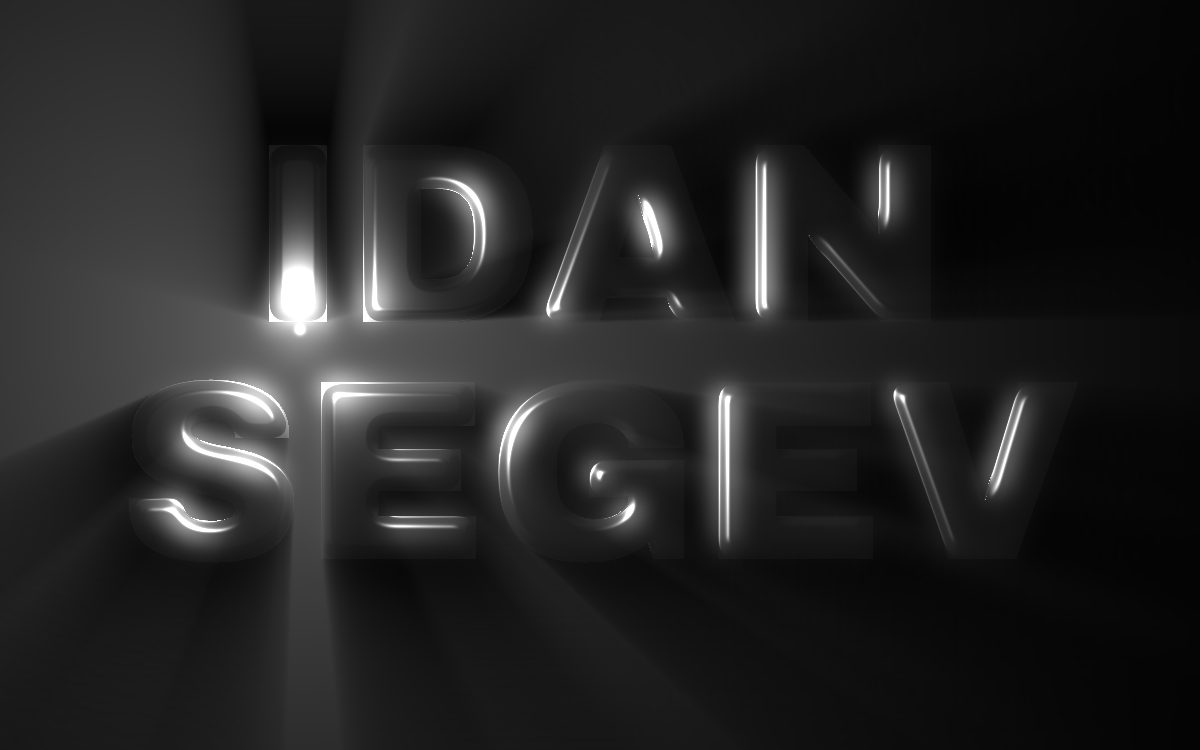
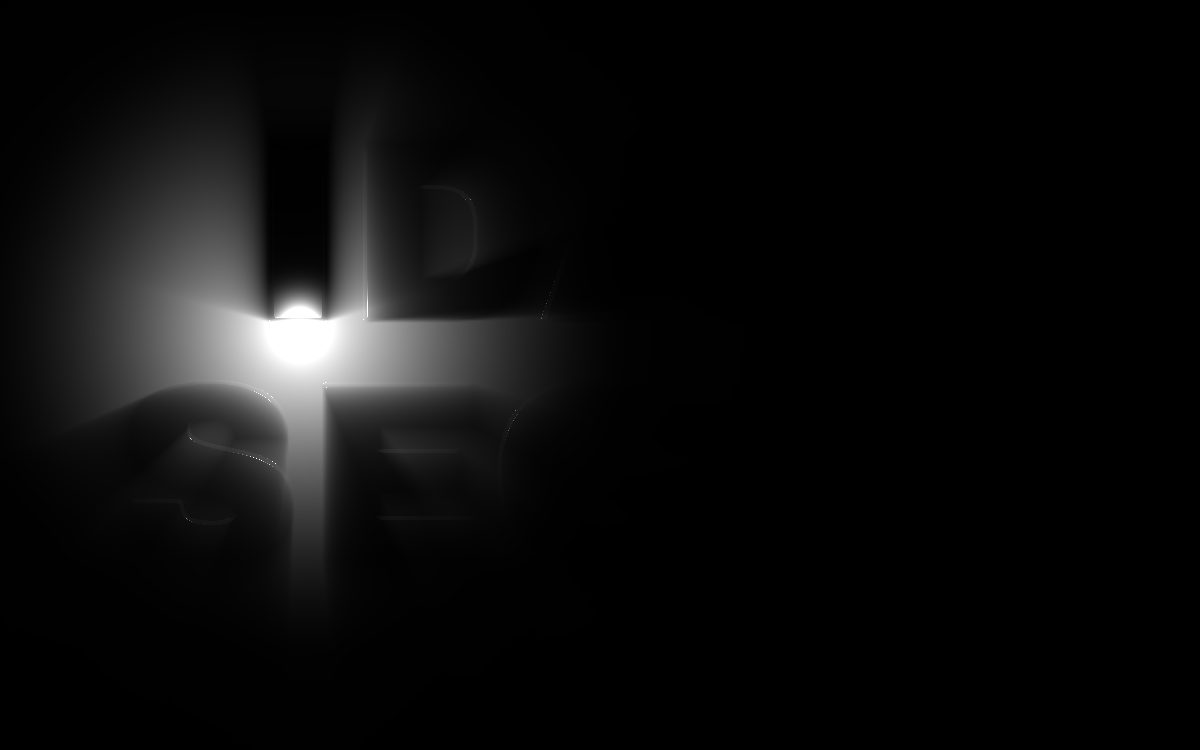
Glint: black only, lock and publish; share pages for Marbled and Glint

diff --git a/src/posters/glint.js b/src/posters/glint.js
@@ -4,7 +4,8 @@
 // (a finger, or the mouse). On the light page the whole picture is inverted.
 //
 // Under the picture (WebGL2): a height field of the type with a smooth bevel; a light pass (specular on the bevel, a small
-// diffuse term); a bloom from a blurred copy; the rays; and a composite with the lamp itself.
+// diffuse term); a bloom from a blurred copy; the rays; and a composite with the lamp itself. Optional: the light in a cone (a lamp
+// with a shade, aimed at the name or at a fixed angle), and a flat look that cuts the picture to two tones.
 //
 // Colour (about one showing in twenty, src/colour.js): from the first touch, the light takes the palette along the page.
 // gestures: n/a (the lamp follows the pointer; nothing else is pressable). Self-demo: once, after 3.5 s untouched, the lamp
@@ -15,13 +16,24 @@ import { colourOf, GLSL_PAGE_GRADIENT } from '../colour.js';
 import { createReveal, grid, corners, label, titleBlock, ink as rvInk } from './reveal.js';
 
 const FACE = '900 100px Archivo, "Arial Black", "Helvetica Neue", sans-serif';
-const DEF = { haze: 0.45, height: 80, reach: 1150, sharp: 28, bloom: 1.4, bevel: 8, face: 0.01 };
+const DEF = { haze: 1.9, height: 80, reach: 300, sharp: 120, bloom: 1.4, bevel: 2, face: 0,
+  cone: 0, coneW: 35, coneSoft: 0.35, aim: 0, aimName: 1,      // the cone: a lamp with a shade, aimed at the name or at a fixed angle
+  flat: 0, cut: 0.3 };                                         // flat: the picture cut to two tones, no greys
 
+const CONE = `uniform float uCone, uConeW, uConeSoft; uniform vec2 uAim;
+float coneAt(vec2 px, vec2 lamp) {
+  if (uCone < 0.5) return 1.0;
+  vec2 d = px - lamp; float l = length(d);
+  float a = acos(clamp(dot(d / max(l, 1e-3), uAim), -1.0, 1.0));
+  float s = max(uConeSoft * uConeW, 0.004);
+  return mix(1.0, smoothstep(uConeW + s * 0.5, uConeW - s * 0.5, a), smoothstep(4.0, 28.0, l));
+}`;
 const VS = `#version 300 es
 out vec2 uv; void main() { vec2 p = vec2(float((gl_VertexID << 1) & 2), float(gl_VertexID & 2)); uv = p; gl_Position = vec4(p * 2.0 - 1.0, 0.0, 1.0); }`;
 const LIGHT = `#version 300 es
 precision highp float;
 in vec2 uv; uniform sampler2D uH; uniform vec2 uCss, uTex; uniform vec3 uLamp; uniform float uSharp, uReach, uFace, uDepth;
+${CONE}
 out vec4 o;
 void main() {
   float h = texture(uH, uv).r;
@@ -33,7 +45,7 @@ void main() {
   vec3 N = normalize(vec3(-hx * scale.x, hy * scale.y, 1.0));
   vec3 L = vec3(uLamp.xy - px, uLamp.z - h * uDepth); float dist = length(L); L /= dist;
   vec3 H = normalize(L + vec3(0.0, 0.0, 1.0));
-  float fall = pow(clamp(1.0 - dist / uReach, 0.0, 1.0), 1.5);
+  float fall = pow(clamp(1.0 - dist / uReach, 0.0, 1.0), 1.5) * coneAt(px, uLamp.xy);
   float spec = pow(max(dot(N, H), 0.0), uSharp) * 4.0 * fall;
   float diff = max(dot(N, L), 0.0) * fall * 0.10 * smoothstep(0.02, 0.2, abs(hx) + abs(hy));
   o = vec4((spec + diff) * mask + uFace * mask, h, 0.0, 1.0);
@@ -46,26 +58,29 @@ void main() { float w[5] = float[5](0.227, 0.195, 0.122, 0.054, 0.016); float s 
 const RAYS = `#version 300 es
 precision highp float;
 in vec2 uv; uniform sampler2D uH; uniform vec2 uLampUV, uCss; uniform float uReach; out vec4 o;
+${CONE}
 void main() {
   vec2 d = (uv - uLampUV) / 72.0; vec2 p = uv; float lit = 0.0, w = 1.0, sum = 0.0;
   for (int i = 0; i < 72; i++) { p -= d; lit += (1.0 - texture(uH, p).g) * w; sum += w; w *= 0.985; }
   lit /= sum;
   float dist = length((uv - uLampUV) * uCss);
   float fall = pow(clamp(1.0 - dist / (uReach * 1.15), 0.0, 1.0), 2.8) + 0.25 * exp(-dist / 60.0);
+  fall *= coneAt(vec2(uv.x, 1.0 - uv.y) * uCss, vec2(uLampUV.x, 1.0 - uLampUV.y) * uCss);
   o = vec4(lit * lit * fall, 0.0, 0.0, 1.0);
 }`;
 const COMP = `#version 300 es
 precision highp float;
-in vec2 uv; uniform sampler2D uL, uB, uR; uniform float uBloom, uHaze, uCol, uInv; uniform vec2 uCss; uniform vec3 uLamp;
+in vec2 uv; uniform sampler2D uL, uB, uR; uniform float uBloom, uHaze, uCol, uInv, uFlat, uCut; uniform vec2 uCss; uniform vec3 uLamp;
 ${GLSL_PAGE_GRADIENT}
 out vec4 o;
 void main() {
   float v = texture(uL, uv).r + texture(uB, uv).r * uBloom + texture(uR, uv).r * uHaze * 0.55;
   vec2 px = vec2(uv.x, 1.0 - uv.y) * uCss; float d2 = dot(px - uLamp.xy, px - uLamp.xy);
   float lamp = exp(-d2 / 18.0) + 0.16 * exp(-d2 / 900.0);
-  vec3 c = vec3(pow(clamp(v, 0.0, 1.0), 1.0 / 1.4));
-  c = mix(c, c * gradientAt(1.0 - uv.y) * 1.25, uCol);
-  c += lamp;
+  vec3 c;
+  if (uFlat > 0.5) { float t = v + lamp; float fw = max(fwidth(t), 1e-3); c = vec3(smoothstep(uCut - fw, uCut + fw, t)); }   // two tones
+  else { c = vec3(pow(clamp(v, 0.0, 1.0), 1.0 / 1.4)); c += lamp; }
+  c = mix(c, c * gradientAt(1.0 - uv.y) * (uFlat > 0.5 ? 1.0 : 1.25), uCol);
   o = vec4(mix(c, vec3(1.0) - c, uInv), 1.0);
 }`;
 
@@ -107,8 +122,8 @@ export async function mount(stage) {
     lines.forEach((l, i) => x.fillText(l, texW / 2, top + i * lead));
     const src = x.getImageData(0, 0, texW, texH).data, n = texW * texH, mask = new Float32Array(n);
     for (let i = 0; i < n; i++) mask[i] = src[i * 4 + 3] / 255;
-    let a = mask.slice(), b = new Float32Array(n); const r = Math.max(1, Math.round(P.bevel * k));
-    for (let pass = 0; pass < 3; pass++) {                              // three box blurs make a gaussian: the bevel
+    let a = mask.slice(), b = new Float32Array(n); const r = Math.round(P.bevel * k);   // 0: no bevel, a hard edge
+    for (let pass = 0; pass < (r > 0 ? 3 : 0); pass++) {                              // three box blurs make a gaussian: the bevel
       for (let y = 0; y < texH; y++) { let s = 0; const o = y * texW; for (let i = -r; i <= r; i++) s += a[o + Math.min(texW - 1, Math.max(0, i))];
         for (let xx = 0; xx < texW; xx++) { b[o + xx] = s / (2 * r + 1); s += a[o + Math.min(texW - 1, xx + r + 1)] - a[o + Math.max(0, xx - r)]; } }
       for (let xx = 0; xx < texW; xx++) { let s = 0; for (let i = -r; i <= r; i++) s += b[Math.min(texH - 1, Math.max(0, i)) * texW + xx];
@@ -147,7 +162,11 @@ export async function mount(stage) {
   const Ctl = (key, label2, min, max, step) => ({ key, label: label2, min, max, step });
   const tune = {
     title: 'Glint', values: P, defaults: DEF,
-    groups: [{ name: 'Light', items: [Ctl('haze', 'Light in the air (beams)', 0, 2, 0.02), Ctl('height', 'Lamp height (low: grazing)', 20, 400, 5), Ctl('reach', 'How far the lamp reaches', 300, 2400, 20), Ctl('sharp', 'Glint (soft to sharp)', 4, 120, 1), Ctl('bloom', 'Bloom', 0, 3, 0.05), Ctl('bevel', 'Bevel width (px)', 2, 24, 1), Ctl('face', 'The face, seen at all', 0, 0.12, 0.002)] }],
+    groups: [
+      { name: 'Light', items: [Ctl('haze', 'Light in the air (beams)', 0, 3, 0.02), Ctl('height', 'Lamp height (low: grazing)', 20, 400, 5), Ctl('reach', 'How far the lamp reaches', 100, 2400, 20), Ctl('sharp', 'Glint (soft to sharp)', 4, 300, 1), Ctl('bloom', 'Bloom', 0, 3, 0.05), Ctl('bevel', 'Bevel width (px)', 0, 24, 0.5), Ctl('face', 'The face, seen at all', 0, 0.12, 0.002)] },
+      { name: 'Cone', items: [{ key: 'cone', label: 'Light in a cone', type: 'toggle' }, Ctl('coneW', 'Cone width (half angle, deg)', 3, 90, 1), Ctl('coneSoft', 'Cone edge (hard to soft)', 0, 1, 0.01), { key: 'aimName', label: 'Aim at the name', type: 'toggle' }, Ctl('aim', 'Aim (deg, when not at the name)', 0, 360, 1)] },
+      { name: 'Look', items: [{ key: 'flat', label: 'Flat black and white', type: 'toggle' }, Ctl('cut', 'Where white begins', 0.01, 0.9, 0.01)] },
+    ],
     set(key, v) { P[key] = v; if (key === 'bevel') build(); },
     reset() { Object.assign(P, DEF); build(); },
   };
@@ -164,11 +183,14 @@ export async function mount(stage) {
     }
     lamp.x += (lamp.tx - lamp.x) * Math.min(1, dt * 9); lamp.y += (lamp.ty - lamp.y) * Math.min(1, dt * 9);
     const lampZ = P.height;
+    let ax = Math.cos(P.aim * Math.PI / 180), ay = Math.sin(P.aim * Math.PI / 180);   // the cone's direction, on the page (y down)
+    if (P.aimName) { const dx = W / 2 - lamp.x, dy = H / 2 - lamp.y, l = Math.hypot(dx, dy); if (l > 1) { ax = dx / l; ay = dy / l; } }
+    const cone = (pp) => { gl.uniform1f(pp.u('uCone'), P.cone ? 1 : 0); gl.uniform1f(pp.u('uConeW'), P.coneW * Math.PI / 180); gl.uniform1f(pp.u('uConeSoft'), P.coneSoft); gl.uniform2f(pp.u('uAim'), ax, ay); };
     gl.disable(gl.BLEND); gl.bindVertexArray(vao);
     gl.bindFramebuffer(gl.FRAMEBUFFER, TL.f); gl.viewport(0, 0, TL.w, TL.h); gl.useProgram(pL.p);
     gl.activeTexture(gl.TEXTURE0); gl.bindTexture(gl.TEXTURE_2D, hTex); gl.uniform1i(pL.u('uH'), 0);
     gl.uniform2f(pL.u('uCss'), W, H); gl.uniform2f(pL.u('uTex'), 1 / texW, 1 / texH); gl.uniform3f(pL.u('uLamp'), lamp.x, lamp.y, lampZ);
-    gl.uniform1f(pL.u('uSharp'), P.sharp); gl.uniform1f(pL.u('uReach'), P.reach); gl.uniform1f(pL.u('uFace'), P.face); gl.uniform1f(pL.u('uDepth'), 30 * (W / texW) / 2);
+    gl.uniform1f(pL.u('uSharp'), P.sharp); gl.uniform1f(pL.u('uReach'), P.reach); gl.uniform1f(pL.u('uFace'), P.face); gl.uniform1f(pL.u('uDepth'), 30 * (W / texW) / 2); cone(pL);
     gl.drawArrays(gl.TRIANGLES, 0, 3);
     gl.useProgram(pB.p);                                                // bloom: a quarter-size blur, there and back, twice
     for (let pass = 0; pass < 2; pass++) {
@@ -177,13 +199,14 @@ export async function mount(stage) {
     }
     gl.bindFramebuffer(gl.FRAMEBUFFER, TR.f); gl.viewport(0, 0, TR.w, TR.h); gl.useProgram(pR.p);   // the air
     gl.bindTexture(gl.TEXTURE_2D, hTex); gl.uniform1i(pR.u('uH'), 0);
-    gl.uniform2f(pR.u('uLampUV'), lamp.x / W, 1 - lamp.y / H); gl.uniform2f(pR.u('uCss'), W, H); gl.uniform1f(pR.u('uReach'), P.reach);
+    gl.uniform2f(pR.u('uLampUV'), lamp.x / W, 1 - lamp.y / H); gl.uniform2f(pR.u('uCss'), W, H); gl.uniform1f(pR.u('uReach'), P.reach); cone(pR);
     gl.drawArrays(gl.TRIANGLES, 0, 3);
     gl.bindFramebuffer(gl.FRAMEBUFFER, null); gl.viewport(0, 0, stage.pw, stage.ph); gl.useProgram(pC.p);
     gl.activeTexture(gl.TEXTURE0); gl.bindTexture(gl.TEXTURE_2D, TL.t); gl.uniform1i(pC.u('uL'), 0);
     gl.activeTexture(gl.TEXTURE1); gl.bindTexture(gl.TEXTURE_2D, TB.t); gl.uniform1i(pC.u('uB'), 1);
     gl.activeTexture(gl.TEXTURE2); gl.bindTexture(gl.TEXTURE_2D, TR.t); gl.uniform1i(pC.u('uR'), 2); gl.activeTexture(gl.TEXTURE0);
     gl.uniform1f(pC.u('uBloom'), P.bloom); gl.uniform1f(pC.u('uHaze'), P.haze); gl.uniform1f(pC.u('uCol'), col ? col.amount : 0); gl.uniform1f(pC.u('uInv'), dark ? 0 : 1);
+    gl.uniform1f(pC.u('uFlat'), P.flat ? 1 : 0); gl.uniform1f(pC.u('uCut'), P.cut);
     gl.uniform2f(pC.u('uCss'), W, H); gl.uniform3f(pC.u('uLamp'), lamp.x, lamp.y, lampZ); gl.uniform3fv(pC.u('uG[0]'), gUni);
     gl.drawArrays(gl.TRIANGLES, 0, 3);
     rv.draw(now);

diff --git a/p/glint/index.html b/p/glint/index.html
@@ -1,0 +1,75 @@
+<!doctype html>
+<html lang="en" data-poster="glint">
+<head>
+<meta charset="utf-8">
+<meta name="viewport" content="width=device-width, initial-scale=1, viewport-fit=cover">
+<title>Glint · Idan Segev</title>
+<meta name="description" content="Black type on black, seen only where a small lamp catches its edges. Move the lamp; the light fills the air.">
+<link rel="canonical" href="https://idansegev.com/p/glint/">
+<meta name="theme-color" content="#000000">
+<meta name="color-scheme" content="dark light">
+
+<meta property="og:type" content="website">
+<meta property="og:site_name" content="Idan Segev">
+<meta property="og:title" content="Glint · Idan Segev">
+<meta property="og:description" content="Black type on black, seen only where a small lamp catches its edges. Move the lamp; the light fills the air.">
+<meta property="og:url" content="https://idansegev.com/p/glint/">
+<meta property="og:image" content="https://idansegev.com/assets/og.png">
+<meta property="og:image:width" content="1200">
+<meta property="og:image:height" content="630">
+<meta property="og:image:alt" content="Idan Segev, set in huge white type on black, melting at the baseline.">
+<meta name="twitter:card" content="summary_large_image">
+<meta name="twitter:title" content="Glint · Idan Segev">
+<meta name="twitter:description" content="Black type on black, seen only where a small lamp catches its edges. Move the lamp; the light fills the air.">
+<meta name="twitter:image" content="https://idansegev.com/assets/og.png">
+
+<link rel="icon" href="/assets/favicon-light.svg" type="image/svg+xml">
+<link rel="apple-touch-icon" href="/assets/apple-touch-icon.png">
+<meta name="apple-mobile-web-app-title" content="Idan Segev">
+
+<link rel="preconnect" href="https://fonts.googleapis.com">
+<link rel="preconnect" href="https://fonts.gstatic.com" crossorigin>
+<link rel="stylesheet" href="https://fonts.googleapis.com/css2?family=Archivo:wght@700;900&family=IBM+Plex+Mono:wght@400;500&family=IBM+Plex+Sans:wght@400;500&display=swap">
+<link rel="stylesheet" href="/src/shell.css">
+<script type="module" src="/src/main.js"></script>
+<script defer src="https://cloud.umami.is/script.js" data-website-id="444fe210-9edc-4c19-86d7-e5a1197075e4"></script>
+</head>
+<body>
+<h1 class="sr-only">Idan Segev, design leader and builder of builders</h1>
+
+<div id="stage" class="stage"></div>
+
+<!-- The menu: hover the top-left corner and a quiet "Posters" appears; click it and the posters are listed in large type, a preview following the pointer. -->
+<button id="menu-corner" class="menu-corner" type="button" aria-haspopup="dialog" aria-expanded="false" aria-controls="index"><span class="lbl">Posters</span></button>
+<div id="index" class="index" role="dialog" aria-modal="true" aria-label="Posters" hidden>
+  <ol id="index-list" class="index-list"></ol>
+  <div id="peek" class="peek" aria-hidden="true"><img alt="" decoding="async"></div>
+</div>
+
+<div id="hint" class="hint" aria-hidden="true"></div>
+<div id="toast" role="status" aria-live="polite"></div>
+
+<footer class="chrome">
+  <div class="id">
+    <span class="who" id="who">
+      <button id="btn-name" class="name" type="button" aria-expanded="false" aria-controls="links">Idan Segev</button>
+      <span class="slot">
+        <span class="role"><span class="r1">Design leader.</span> <span class="r2">Building teams of builders.</span></span>
+        <nav id="links" class="links" aria-label="Elsewhere">
+          <a href="https://www.linkedin.com/in/idansegev/" target="_blank" rel="noopener">LinkedIn</a>
+        </nav>
+      </span>
+    </span>
+    <span class="folio" hidden><span id="folio-title"></span><span class="count" id="folio-count"></span></span>
+  </div>
+  <div class="actions">
+    <button id="btn-shuffle" type="button">Shuffle</button>
+    <button id="btn-share" type="button" hidden>Share</button>
+  </div>
+</footer>
+
+<noscript>
+  <div class="plain">Idan<br>Segev<br><small style="font:400 14px/1.5 monospace;text-transform:none;display:block;margin-top:24px">Design leader. Building teams of builders. This page is a set of interactive posters and needs JavaScript.</small></div>
+</noscript>
+</body>
+</html>

diff --git a/p/marbled/index.html b/p/marbled/index.html
@@ -1,0 +1,75 @@
+<!doctype html>
+<html lang="en" data-poster="marbled">
+<head>
+<meta charset="utf-8">
+<meta name="viewport" content="width=device-width, initial-scale=1, viewport-fit=cover">
+<title>Marbled · Idan Segev</title>
+<meta name="description" content="The name floats as ink on water. Stir it, drag to comb it into marbled patterns, tap to drop more ink.">
+<link rel="canonical" href="https://idansegev.com/p/marbled/">
+<meta name="theme-color" content="#000000">
+<meta name="color-scheme" content="dark light">
+
+<meta property="og:type" content="website">
+<meta property="og:site_name" content="Idan Segev">
+<meta property="og:title" content="Marbled · Idan Segev">
+<meta property="og:description" content="The name floats as ink on water. Stir it, drag to comb it into marbled patterns, tap to drop more ink.">
+<meta property="og:url" content="https://idansegev.com/p/marbled/">
+<meta property="og:image" content="https://idansegev.com/assets/og.png">
+<meta property="og:image:width" content="1200">
+<meta property="og:image:height" content="630">
+<meta property="og:image:alt" content="Idan Segev, set in huge white type on black, melting at the baseline.">
+<meta name="twitter:card" content="summary_large_image">
+<meta name="twitter:title" content="Marbled · Idan Segev">
+<meta name="twitter:description" content="The name floats as ink on water. Stir it, drag to comb it into marbled patterns, tap to drop more ink.">
+<meta name="twitter:image" content="https://idansegev.com/assets/og.png">
+
+<link rel="icon" href="/assets/favicon-light.svg" type="image/svg+xml">
+<link rel="apple-touch-icon" href="/assets/apple-touch-icon.png">
+<meta name="apple-mobile-web-app-title" content="Idan Segev">
+
+<link rel="preconnect" href="https://fonts.googleapis.com">
+<link rel="preconnect" href="https://fonts.gstatic.com" crossorigin>
+<link rel="stylesheet" href="https://fonts.googleapis.com/css2?family=Archivo:wght@700;900&family=IBM+Plex+Mono:wght@400;500&family=IBM+Plex+Sans:wght@400;500&display=swap">
+<link rel="stylesheet" href="/src/shell.css">
+<script type="module" src="/src/main.js"></script>
+<script defer src="https://cloud.umami.is/script.js" data-website-id="444fe210-9edc-4c19-86d7-e5a1197075e4"></script>
+</head>
+<body>
+<h1 class="sr-only">Idan Segev, design leader and builder of builders</h1>
+
+<div id="stage" class="stage"></div>
+
+<!-- The menu: hover the top-left corner and a quiet "Posters" appears; click it and the posters are listed in large type, a preview following the pointer. -->
+<button id="menu-corner" class="menu-corner" type="button" aria-haspopup="dialog" aria-expanded="false" aria-controls="index"><span class="lbl">Posters</span></button>
+<div id="index" class="index" role="dialog" aria-modal="true" aria-label="Posters" hidden>
+  <ol id="index-list" class="index-list"></ol>
+  <div id="peek" class="peek" aria-hidden="true"><img alt="" decoding="async"></div>
+</div>
+
+<div id="hint" class="hint" aria-hidden="true"></div>
+<div id="toast" role="status" aria-live="polite"></div>
+
+<footer class="chrome">
+  <div class="id">
+    <span class="who" id="who">
+      <button id="btn-name" class="name" type="button" aria-expanded="false" aria-controls="links">Idan Segev</button>
+      <span class="slot">
+        <span class="role"><span class="r1">Design leader.</span> <span class="r2">Building teams of builders.</span></span>
+        <nav id="links" class="links" aria-label="Elsewhere">
+          <a href="https://www.linkedin.com/in/idansegev/" target="_blank" rel="noopener">LinkedIn</a>
+        </nav>
+      </span>
+    </span>
+    <span class="folio" hidden><span id="folio-title"></span><span class="count" id="folio-count"></span></span>
+  </div>
+  <div class="actions">
+    <button id="btn-shuffle" type="button">Shuffle</button>
+    <button id="btn-share" type="button" hidden>Share</button>
+  </div>
+</footer>
+
+<noscript>
+  <div class="plain">Idan<br>Segev<br><small style="font:400 14px/1.5 monospace;text-transform:none;display:block;margin-top:24px">Design leader. Building teams of builders. This page is a set of interactive posters and needs JavaScript.</small></div>
+</noscript>
+</body>
+</html>

diff --git a/src/posters/index.js b/src/posters/index.js
@@ -243,10 +243,9 @@ export const POSTERS = [
     words: ['Idan', 'Segev'],
     blurb: 'Black type on black, seen only where a small lamp catches its edges. Move the lamp; the light fills the air.',
     hint: null,
-    themes: { dark: 0.5, light: 0.5 },
-    draft: true,               // pulled from the launch set 18 Oct 2026: needs more refinement first
+    themes: { dark: 1, light: 0 },        // black only: a lamp in the dark has no white version
     load: () => import('./glint.js'),
-    prompt: "The name \"Idan Segev\" as a bevelled slab in black on black, nearly invisible, seen only where a small lamp low over the page catches the edges of the letters, rendered with WebGL2. Build a height field of the type with a smooth bevel, light it with a point lamp (specular on the bevel, a bloom from a blurred copy), and add volumetric light: a screen-space light-scattering pass marched from each pixel toward the lamp that the letters block, so beams spread from the lamp and the letters throw shafts of shadow away from it. The lamp follows the pointer. In the light theme the whole picture is inverted.",
+    prompt: "The name \"Idan Segev\" as a bevelled slab in black on black, nearly invisible, seen only where a small lamp low over the page catches the edges of the letters, rendered with WebGL2. Build a height field of the type with a smooth bevel, light it with a point lamp (specular on the bevel, a bloom from a blurred copy), and add volumetric light: a screen-space light-scattering pass marched from each pixel toward the lamp that the letters block, so beams spread from the lamp and the letters throw shafts of shadow away from it. The lamp follows the pointer.",
   },
   {
     slug: 'rigged',

diff --git a/p/collapse/index.html b/p/collapse/index.html
@@ -54,7 +54,7 @@
     <span class="who" id="who">
       <button id="btn-name" class="name" type="button" aria-expanded="false" aria-controls="links">Idan Segev</button>
       <span class="slot">
-        <span class="role">Design leader. Building teams of builders.</span>
+        <span class="role"><span class="r1">Design leader.</span> <span class="r2">Building teams of builders.</span></span>
         <nav id="links" class="links" aria-label="Elsewhere">
           <a href="https://www.linkedin.com/in/idansegev/" target="_blank" rel="noopener">LinkedIn</a>
         </nav>

diff --git a/p/explode/index.html b/p/explode/index.html
@@ -54,7 +54,7 @@
     <span class="who" id="who">
       <button id="btn-name" class="name" type="button" aria-expanded="false" aria-controls="links">Idan Segev</button>
       <span class="slot">
-        <span class="role">Design leader. Building teams of builders.</span>
+        <span class="role"><span class="r1">Design leader.</span> <span class="r2">Building teams of builders.</span></span>
         <nav id="links" class="links" aria-label="Elsewhere">
           <a href="https://www.linkedin.com/in/idansegev/" target="_blank" rel="noopener">LinkedIn</a>
         </nav>

diff --git a/p/fan/index.html b/p/fan/index.html
@@ -54,7 +54,7 @@
     <span class="who" id="who">
       <button id="btn-name" class="name" type="button" aria-expanded="false" aria-controls="links">Idan Segev</button>
       <span class="slot">
-        <span class="role">Design leader. Building teams of builders.</span>
+        <span class="role"><span class="r1">Design leader.</span> <span class="r2">Building teams of builders.</span></span>
         <nav id="links" class="links" aria-label="Elsewhere">
           <a href="https://www.linkedin.com/in/idansegev/" target="_blank" rel="noopener">LinkedIn</a>
         </nav>

diff --git a/p/fontapalloza/index.html b/p/fontapalloza/index.html
@@ -54,7 +54,7 @@
     <span class="who" id="who">
       <button id="btn-name" class="name" type="button" aria-expanded="false" aria-controls="links">Idan Segev</button>
       <span class="slot">
-        <span class="role">Design leader. Building teams of builders.</span>
+        <span class="role"><span class="r1">Design leader.</span> <span class="r2">Building teams of builders.</span></span>
         <nav id="links" class="links" aria-label="Elsewhere">
           <a href="https://www.linkedin.com/in/idansegev/" target="_blank" rel="noopener">LinkedIn</a>
         </nav>

diff --git a/p/metal/index.html b/p/metal/index.html
@@ -54,7 +54,7 @@
     <span class="who" id="who">
       <button id="btn-name" class="name" type="button" aria-expanded="false" aria-controls="links">Idan Segev</button>
       <span class="slot">
-        <span class="role">Design leader. Building teams of builders.</span>
+        <span class="role"><span class="r1">Design leader.</span> <span class="r2">Building teams of builders.</span></span>
         <nav id="links" class="links" aria-label="Elsewhere">
           <a href="https://www.linkedin.com/in/idansegev/" target="_blank" rel="noopener">LinkedIn</a>
         </nav>

diff --git a/p/rain/index.html b/p/rain/index.html
@@ -54,7 +54,7 @@
     <span class="who" id="who">
       <button id="btn-name" class="name" type="button" aria-expanded="false" aria-controls="links">Idan Segev</button>
       <span class="slot">
-        <span class="role">Design leader. Building teams of builders.</span>
+        <span class="role"><span class="r1">Design leader.</span> <span class="r2">Building teams of builders.</span></span>
         <nav id="links" class="links" aria-label="Elsewhere">
           <a href="https://www.linkedin.com/in/idansegev/" target="_blank" rel="noopener">LinkedIn</a>
         </nav>

diff --git a/p/slinky-type/index.html b/p/slinky-type/index.html
@@ -54,7 +54,7 @@
     <span class="who" id="who">
       <button id="btn-name" class="name" type="button" aria-expanded="false" aria-controls="links">Idan Segev</button>
       <span class="slot">
-        <span class="role">Design leader. Building teams of builders.</span>
+        <span class="role"><span class="r1">Design leader.</span> <span class="r2">Building teams of builders.</span></span>
         <nav id="links" class="links" aria-label="Elsewhere">
           <a href="https://www.linkedin.com/in/idansegev/" target="_blank" rel="noopener">LinkedIn</a>
         </nav>

diff --git a/p/soft-type/index.html b/p/soft-type/index.html
@@ -54,7 +54,7 @@
     <span class="who" id="who">
       <button id="btn-name" class="name" type="button" aria-expanded="false" aria-controls="links">Idan Segev</button>
       <span class="slot">
-        <span class="role">Design leader. Building teams of builders.</span>
+        <span class="role"><span class="r1">Design leader.</span> <span class="r2">Building teams of builders.</span></span>
         <nav id="links" class="links" aria-label="Elsewhere">
           <a href="https://www.linkedin.com/in/idansegev/" target="_blank" rel="noopener">LinkedIn</a>
         </nav>
